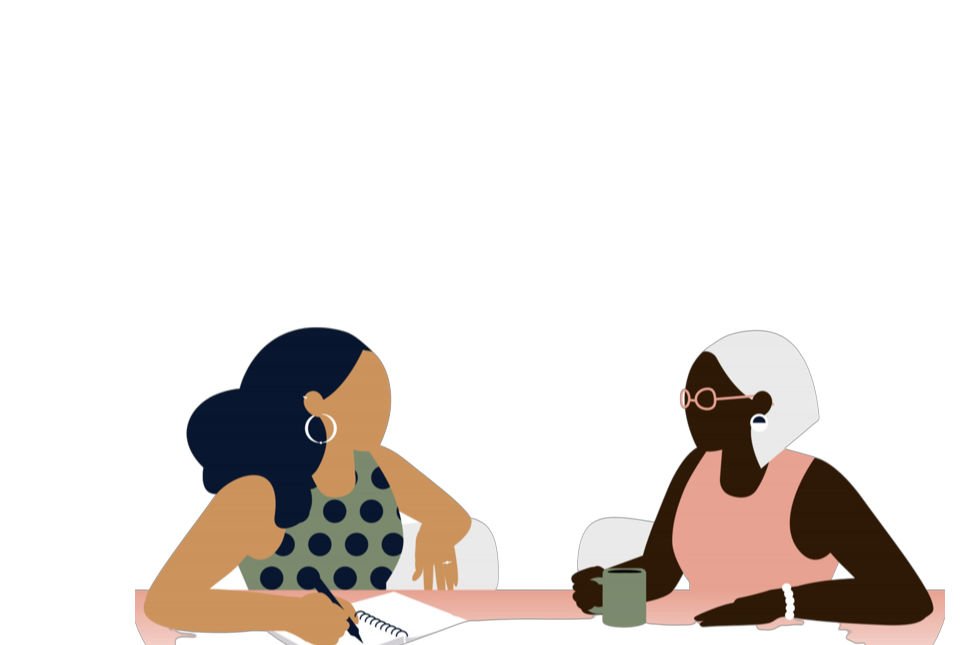
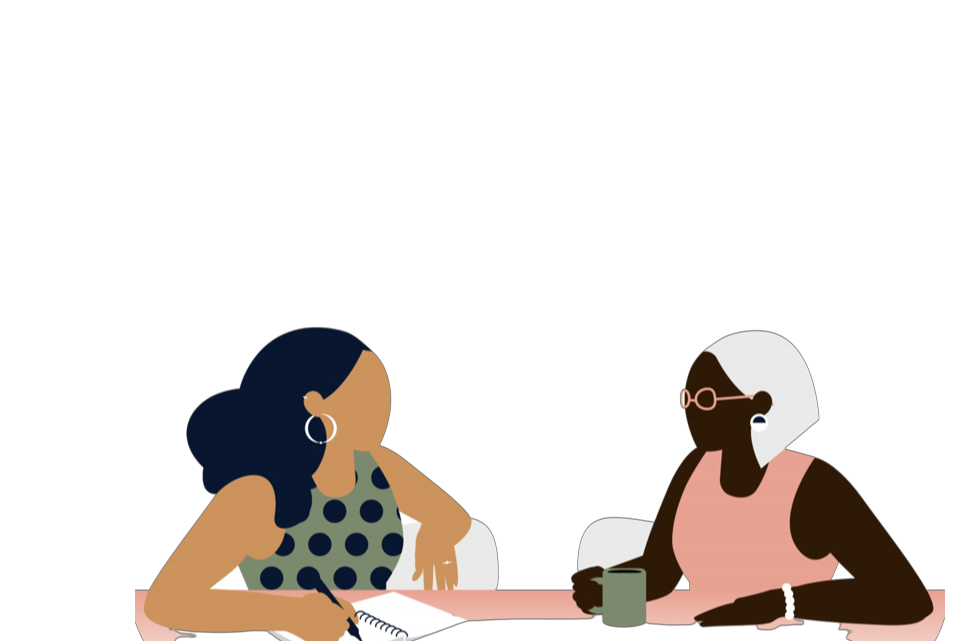
added background size cover and moved main image to left

diff --git a/heyauntie/src/components/Navbar.js b/heyauntie/src/components/Navbar.js
@@ -21,7 +21,7 @@ function Toolbar() {
             >
               <Offcanvas.Header closeButton>
                 <Offcanvas.Title id={`offcanvasNavbarLabel-expand-${expand}`}>
-                  Offcanvas
+                <img class="logo"src={require("../assets/img/pink-logo.png")} alt="heyauntie-logo" />
                 </Offcanvas.Title>
               </Offcanvas.Header>
               <Offcanvas.Body>
@@ -32,8 +32,6 @@ function Toolbar() {
                     title="Dropdown"
                     id={`offcanvasNavbarDropdown-expand-${expand}`}
                   >
-              
-                    
                     <NavDropdown.Item href="#action5">
                       Something else here
                     </NavDropdown.Item>

diff --git a/heyauntie/src/App.css b/heyauntie/src/App.css
@@ -5,12 +5,15 @@
 
 .homepage{
  display: flex;
- justify-content: center;
+ justify-content: left;
+ /* width:'100%';
+  height:'200px'; */
 }
 
 .home-style{
    background-image:
   url("../../heyauntie/src/assets/img/home-bk.png");
+  background-size: cover;
 }
 
 .logo{
